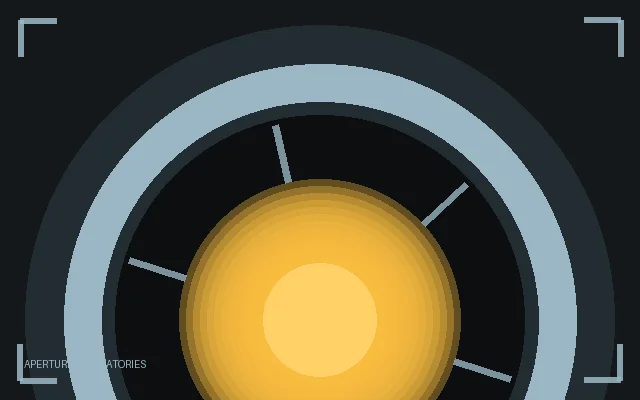
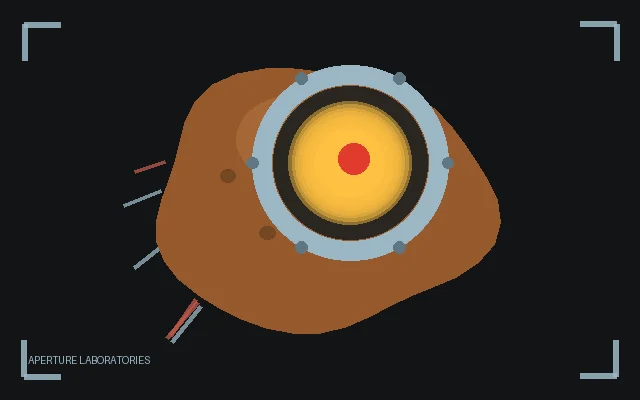
GLaDOS in potato form: lumpy potato body with the bolted Aperture eye
The eye rides the potato with a metal ring and bolts, a glowing yellow lens
with a red pupil, and clipped wires swaying from the back. Simpler shapes,
cheaper to render. Bump to 0.4.0.

diff --git a/src/glados/kiosk/skin/GladosEye.java b/src/glados/kiosk/skin/GladosEye.java
@@ -11,32 +11,45 @@ import android.graphics.Shader;
 import android.os.SystemClock;
 import android.view.View;
 
+import java.util.Random;
+
 /**
- * The Aperture eye: a chrome ring, a dark lens and a glowing yellow-orange
- * core that flares with the voice and the answer. Six shutter blades tighten
- * around the core while the assistant thinks, the ring rotates slowly, and
- * the whole eye breathes at rest. It animates itself while attached and reads
- * the voice from {@link GladosSkin}.
+ * Potato GLaDOS: the Aperture eye jammed into a potato, as the game's second
+ * act has her. The potato is a lumpy brown ellipse with darker spots, the eye
+ * is a metal ring with bolts and a glowing yellow lens with a red pupil that
+ * flares with the voice and the answer, and a few clipped wires hang from the
+ * back. It animates itself while attached and reads the voice from
+ * {@link GladosSkin}. Everything is drawn with simple shapes, so it renders
+ * cheaply on weak kiosks.
  */
 final class GladosEye extends View {
-    /** Aperture's cold blue-white for the ring and lens rim. */
-    private static final int STEEL = 0x9BB7C4;
     /** GLaDOS's optic glow, a warm aperture yellow. */
     private static final int GLOW = 0xFFC141;
-    /** Radians a second of the shutter's chattering while the assistant speaks. */
+    /** The red pupil at the lens center. */
+    private static final int PUPIL = 0xE23B2E;
+    /** Radians a second of the lens's chattering while the assistant speaks. */
     private static final float SYLLABLE_RATE = 26f;
+    /** The lens, as a fraction of the ring's radius. */
+    private static final float LENS_FRACTION = 0.52f;
 
     private final GladosSkin skin;
+    private final Paint body = new Paint(Paint.ANTI_ALIAS_FLAG);
+    private final Paint shade = new Paint(Paint.ANTI_ALIAS_FLAG);
+    private final Paint spot = new Paint(Paint.ANTI_ALIAS_FLAG);
     private final Paint ring = new Paint(Paint.ANTI_ALIAS_FLAG);
-    private final Paint ringShade = new Paint(Paint.ANTI_ALIAS_FLAG);
+    private final Paint bolt = new Paint(Paint.ANTI_ALIAS_FLAG);
     private final Paint lens = new Paint(Paint.ANTI_ALIAS_FLAG);
-    private final Paint blade = new Paint(Paint.ANTI_ALIAS_FLAG);
     private final Paint core = new Paint(Paint.ANTI_ALIAS_FLAG);
+    private final Paint pupil = new Paint(Paint.ANTI_ALIAS_FLAG);
     private final Paint glow = new Paint(Paint.ANTI_ALIAS_FLAG);
-    private final RectF box = new RectF();
+    private final Paint wire = new Paint(Paint.ANTI_ALIAS_FLAG);
+    private final RectF oval = new RectF();
     private final long origin = SystemClock.uptimeMillis();
+    /** One potato per skin instance, so the lumps stay put across frames. */
+    private final float[] spots = new float[14];
+    private final float[] wireTips = new float[6];
     /** Eased toward their targets every frame, so a change of mode glides. */
-    private float flare = 0.2f, close;
+    private float flare = 0.2f;
     private double last = -1;
     /** The loudest recent level while listening and while speaking, each decaying. */
     private float micPeak, playPeak;
@@ -44,14 +57,12 @@ final class GladosEye extends View {
     GladosEye(Context context, GladosSkin skin) {
         super(context);
         this.skin = skin;
-        ring.setColor(argb(STEEL, 0.9f));
-        ring.setStyle(Paint.Style.STROKE);
-        ringShade.setColor(argb(STEEL, 0.28f));
-        ringShade.setStyle(Paint.Style.STROKE);
-        lens.setColor(0xFF0C0E10);
-        blade.setColor(argb(STEEL, 0.55f));
-        blade.setStyle(Paint.Style.STROKE);
-        core.setColor(argb(GLOW, 0.95f));
+        Random random = new Random(2049);
+        for (int i = 0; i < spots.length; i += 2) {
+            spots[i] = random.nextFloat();
+            spots[i + 1] = random.nextFloat();
+        }
+        for (int i = 0; i < wireTips.length; i++) wireTips[i] = random.nextFloat();
     }
 
     private static int argb(int rgb, float alpha) {
@@ -75,11 +86,6 @@ final class GladosEye extends View {
         }
     }
 
-    /** 0 to 1: how far the shutter blades close over the core. Only while the assistant thinks. */
-    private static float closeTarget(int mode) {
-        return mode == GladosSkin.THINKING ? 0.62f : 0f;
-    }
-
     @Override protected void onDraw(Canvas canvas) {
         int width = getWidth(), height = getHeight();
         if (width <= 0 || height <= 0) return;
@@ -93,51 +99,77 @@ final class GladosEye extends View {
         float l = reactive ? (listening || speaking ? scaled(dt, speaking) : 0f)
             : speaking ? 0.3f + 0.25f * (0.5f + 0.5f * (float) Math.sin(t * 3.1)) * (0.5f + 0.5f * (float) Math.sin(t * SYLLABLE_RATE)) : 0f;
         flare += (Math.max(0f, Math.min(1f, flareTarget(t, l, mode))) - flare) * (1f - (float) Math.exp(-20 * dt));
-        float target = closeTarget(mode);
-        close += (target - close) * (1f - (float) Math.exp((target > close ? -30 : -14) * dt));
 
         float cx = width / 2f, cy = height / 2f;
-        float radius = Math.min(cx, cy) * (0.86f + 0.02f * flare);
-        // The chrome ring: an outer shade, the ring itself and a thin inner rim.
-        float strokeWidth = radius * 0.16f;
-        ringShade.setStrokeWidth(strokeWidth * 1.7f);
-        ring.setStrokeWidth(strokeWidth);
-        box.set(cx - radius, cy - radius, cx + radius, cy + radius);
-        canvas.drawOval(box, ringShade);
+        float radius = Math.min(cx, cy) * 0.92f;
+        // A slow wobble: the potato sways a little, alive even when idle.
+        float sway = (float) Math.toDegrees(Math.sin(t * 0.8) * 2.5);
+
         canvas.save();
-        canvas.rotate((float) Math.toDegrees(t * 2.6), cx, cy);
-        canvas.drawOval(box, ring);
-        canvas.restore();
-        // The lens.
-        float lensRadius = radius - strokeWidth * 0.6f;
-        box.set(cx - lensRadius, cy - lensRadius, cx + lensRadius, cy + lensRadius);
-        lens.setShader(new RadialGradient(cx, cy, lensRadius,
-            new int[] {0xFF1A1F24, 0xFF0C0E10}, new float[] {0.2f, 1f}, Shader.TileMode.CLAMP));
-        canvas.drawOval(box, lens);
-        // The core and its glow, swelled by the flare.
-        float coreRadius = lensRadius * (0.20f + 0.30f * flare);
-        glow.setShader(new RadialGradient(cx, cy, lensRadius * 0.9f,
+        canvas.rotate(sway, cx, cy);
+
+        // The clipped wires hanging from the potato's back, drawn first so the potato covers their roots.
+        wire.setStrokeWidth(radius * 0.028f);
+        wire.setStrokeCap(Paint.Cap.ROUND);
+        for (int i = 0; i < wireTips.length; i++) {
+            double angle = Math.PI * (0.75 + 0.5 * wireTips[i]);
+            float rootX = cx + (float) Math.cos(angle) * radius * 0.95f;
+            float rootY = cy + (float) Math.sin(angle) * radius * 0.95f;
+            float endX = rootX + (float) Math.cos(angle) * radius * (0.18f + 0.12f * wireTips[i]);
+            float endY = rootY + (float) Math.sin(angle) * radius * 0.18f + radius * 0.10f * (float) Math.sin(t * 2 + i);
+            wire.setColor(argb(i % 2 == 0 ? 0x9BB7C4 : 0xC25B4A, 0.75f));
+            canvas.drawLine(rootX, rootY, endX, endY, wire);
+        }
+
+        // The potato: a lumpy ellipse, wider than tall, with a darker underside and baked spots.
+        float bodyRx = radius, bodyRy = radius * 0.78f;
+        oval.set(cx - bodyRx, cy - bodyRy, cx + bodyRx, cy + bodyRy);
+        body.setShader(new RadialGradient(cx, cy - bodyRy * 0.4f, radius * 1.3f,
+            new int[] {0xFFB7793F, 0xFF9A6232}, new float[] {0.3f, 1f}, Shader.TileMode.CLAMP));
+        canvas.drawOval(oval, body);
+        shade.setColor(argb(0x5C3A1E, 0.5f));
+        oval.set(cx - bodyRx, cy, cx + bodyRx, cy + bodyRy);
+        canvas.drawOval(oval, shade);
+        spot.setColor(argb(0x6B421F, 0.8f));
+        for (int i = 0; i < spots.length; i += 2) {
+            float sx = cx + (spots[i] - 0.5f) * 2 * bodyRx * 0.72f;
+            float sy = cy + (spots[i + 1] - 0.5f) * 2 * bodyRy * 0.6f;
+            float sr = radius * (0.03f + 0.03f * spots[(i + 1) % spots.length]);
+            canvas.drawOval(new RectF(sx - sr, sy - sr * 0.8f, sx + sr, sy + sr * 0.8f), spot);
+        }
+
+        // The eye, riding high on the potato: a metal ring with bolts and the glowing lens.
+        float eyeR = radius * LENS_FRACTION;
+        float ex = cx + radius * 0.18f, ey = cy - bodyRy * 0.28f;
+        ring.setColor(argb(0x9BB7C4, 0.95f));
+        ring.setStyle(Paint.Style.STROKE);
+        float ringWidth = eyeR * 0.24f;
+        ring.setStrokeWidth(ringWidth);
+        canvas.drawCircle(ex, ey, eyeR, ring);
+        bolt.setColor(argb(0x5E7683, 0.95f));
+        for (int i = 0; i < 6; i++) {
+            double angle = Math.PI * 2 * i / 6 + t * 0.2;
+            float bx = ex + (float) Math.cos(angle) * (eyeR + ringWidth / 2f);
+            float by = ey + (float) Math.sin(angle) * (eyeR + ringWidth / 2f);
+            canvas.drawCircle(bx, by, ringWidth * 0.28f, bolt);
+        }
+        // The lens and its glow, swelled by the flare.
+        float lensR = eyeR - ringWidth / 2f;
+        lens.setShader(new RadialGradient(ex, ey, lensR,
+            new int[] {0xFF2A2620, 0xFF141210}, new float[] {0.2f, 1f}, Shader.TileMode.CLAMP));
+        canvas.drawCircle(ex, ey, lensR, lens);
+        float coreR = lensR * (0.34f + 0.30f * flare);
+        glow.setShader(new RadialGradient(ex, ey, lensR * 0.95f,
             new int[] {argb(GLOW, 0.5f * flare), argb(GLOW, 0.22f * flare), argb(GLOW, 0)},
             new float[] {0f, 0.45f, 1f}, Shader.TileMode.CLAMP));
-        canvas.drawCircle(cx, cy, lensRadius * 0.9f, glow);
-        canvas.drawCircle(cx, cy, coreRadius, core);
-        // The six shutter blades, rotated slowly and closed while thinking.
-        float open = 1f - close;
-        float inner = coreRadius + (lensRadius - coreRadius) * 0.55f * open;
-        blade.setStrokeWidth(radius * 0.035f);
-        canvas.save();
-        canvas.rotate((float) Math.toDegrees(t * 9), cx, cy);
-        for (int i = 0; i < 6; i++) {
-            double angle = Math.PI * 2 * i / 6;
-            float midX = cx + (float) Math.cos(angle) * (inner + lensRadius) / 2f;
-            float midY = cy + (float) Math.sin(angle) * (inner + lensRadius) / 2f;
-            float half = (lensRadius - inner) / 2f;
-            canvas.save();
-            canvas.rotate((float) Math.toDegrees(angle), midX, midY);
-            box.set(midX - half, midY - radius * 0.018f, midX + half, midY + radius * 0.018f);
-            canvas.drawRoundRect(box, radius * 0.018f, radius * 0.018f, blade);
-            canvas.restore();
-        }
+        canvas.drawCircle(ex, ey, lensR * 0.95f, glow);
+        core.setColor(argb(GLOW, 0.95f));
+        canvas.drawCircle(ex, ey, coreR, core);
+        // The red pupil, GLaDOS's menace even as a potato.
+        float wobble = 0.5f + 0.5f * (float) Math.sin(t * 1.7);
+        pupil.setColor(argb(PUPIL, 0.75f + 0.25f * flare));
+        canvas.drawCircle(ex + lensR * 0.05f * wobble, ey - lensR * 0.05f * wobble, coreR * (0.42f + 0.10f * flare), pupil);
+
         canvas.restore();
         if (isAttachedToWindow()) postInvalidateOnAnimation();
     }

diff --git a/src/glados/kiosk/skin/GladosHud.java b/src/glados/kiosk/skin/GladosHud.java
@@ -55,7 +55,7 @@ final class GladosHud extends View {
         }
 
         // Aperture bracket corners, eased outward with the voice.
-        float inset = side * (0.035f + 0.012f * pulse);
+        float inset = side * (0.035f + 0.012f * pulse) + 4f;
         float thickness = side * BRACKET;
         float arm = side * ARM;
         line.setStrokeWidth(thickness);

diff --git a/CHANGELOG.md b/CHANGELOG.md
@@ -16,3 +16,8 @@ Initial release.
 
 - Twelve iconic Portal lines in rotation, one every 7 seconds while the skin waits, plus one per turn.
 - More GLaDOS-like status captions: "I'M LISTENING. TRY NOT TO DISAPPOINT ME.", "THINKING. FOR BOTH OF US.", "RESPONDING. NOTE THE SCIENCE.", "RESPONSE COMPLETE. YOU'RE WELCOME."
+
+## 0.4.0
+
+- GLaDOS in potato form, from Portal's second act: lumpy brown potato body with baked spots, the Aperture eye jammed in with a metal bolted ring, a glowing yellow lens with a red pupil, and clipped wires swaying from the back.
+- Simpler shapes than the full eye, cheaper to render on weak kiosks.
